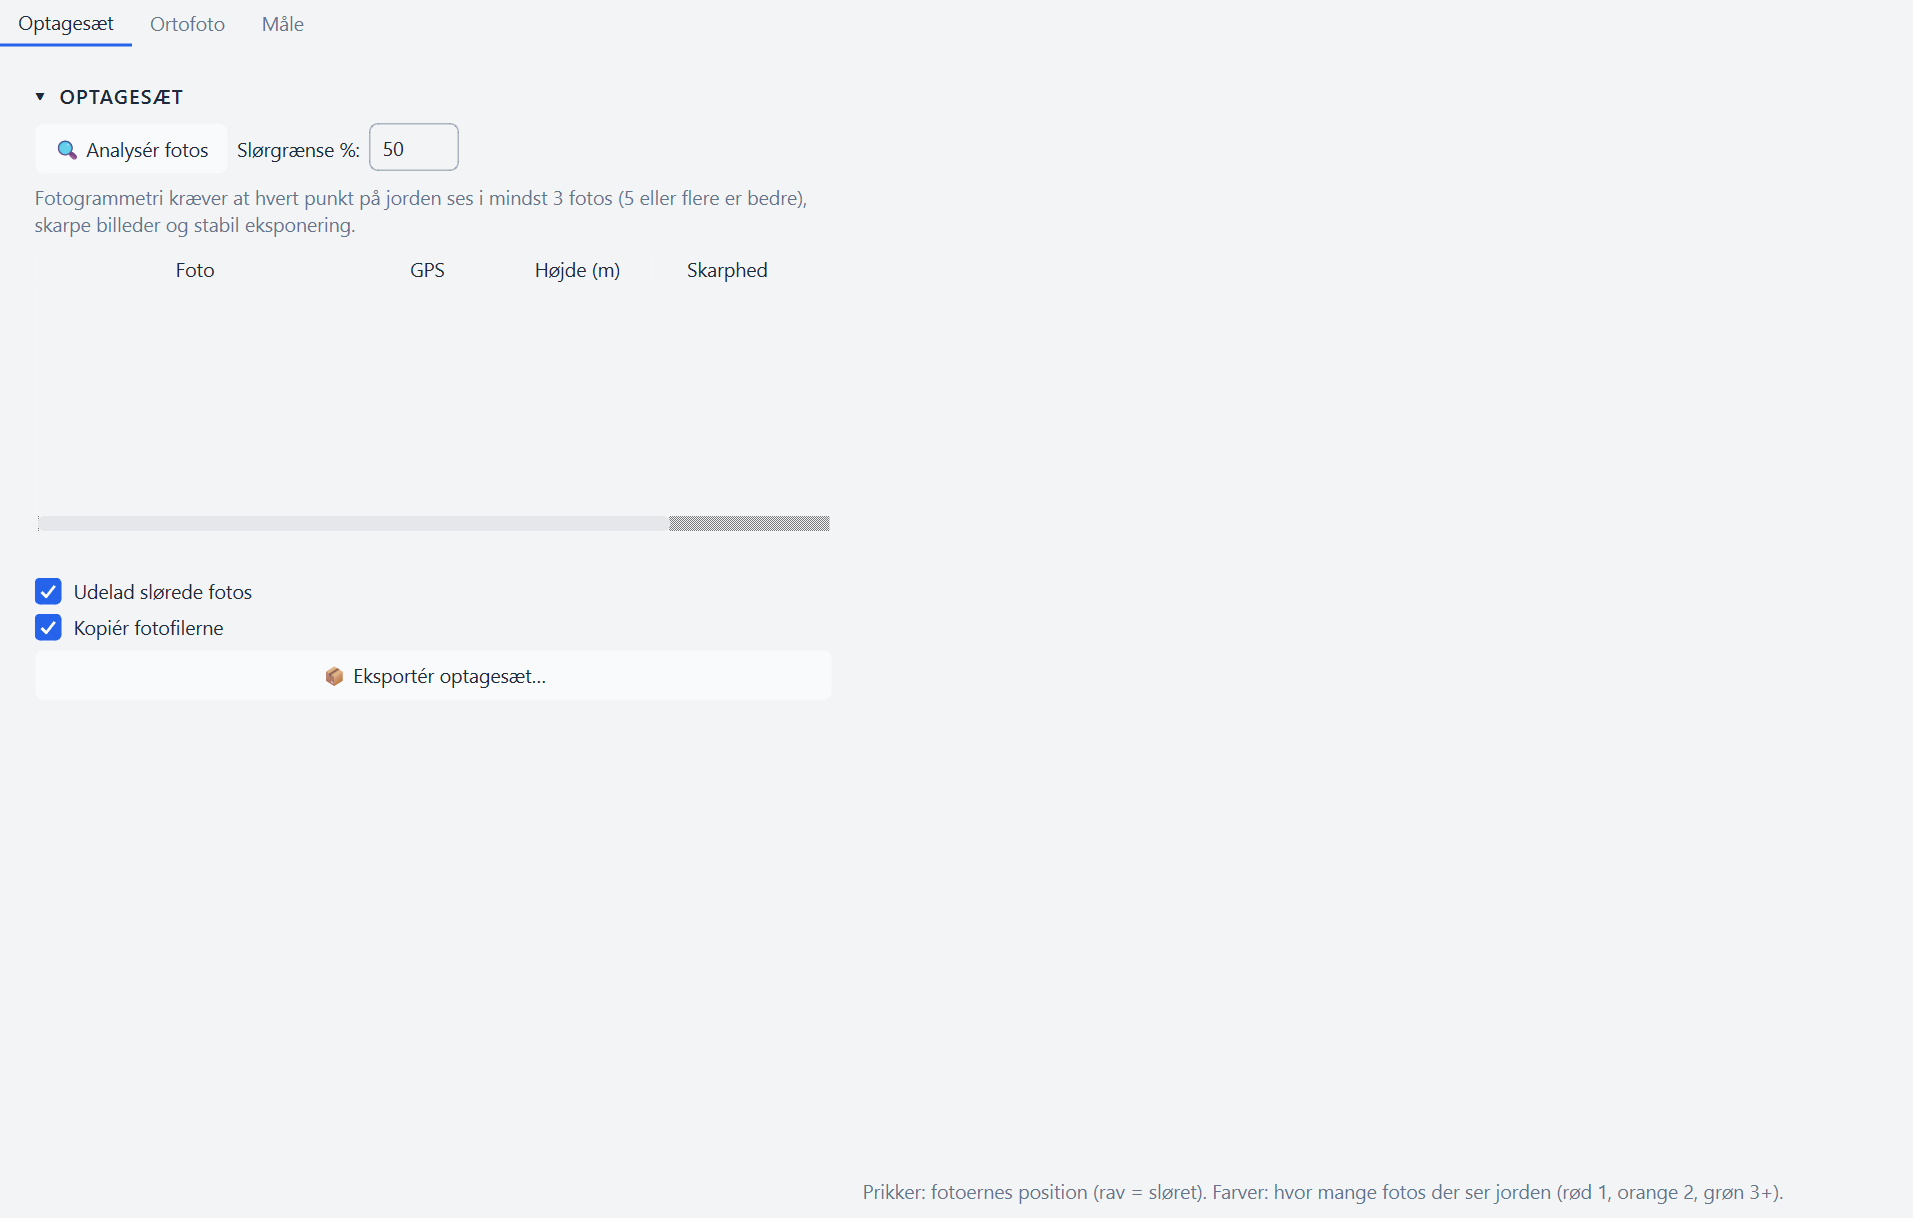
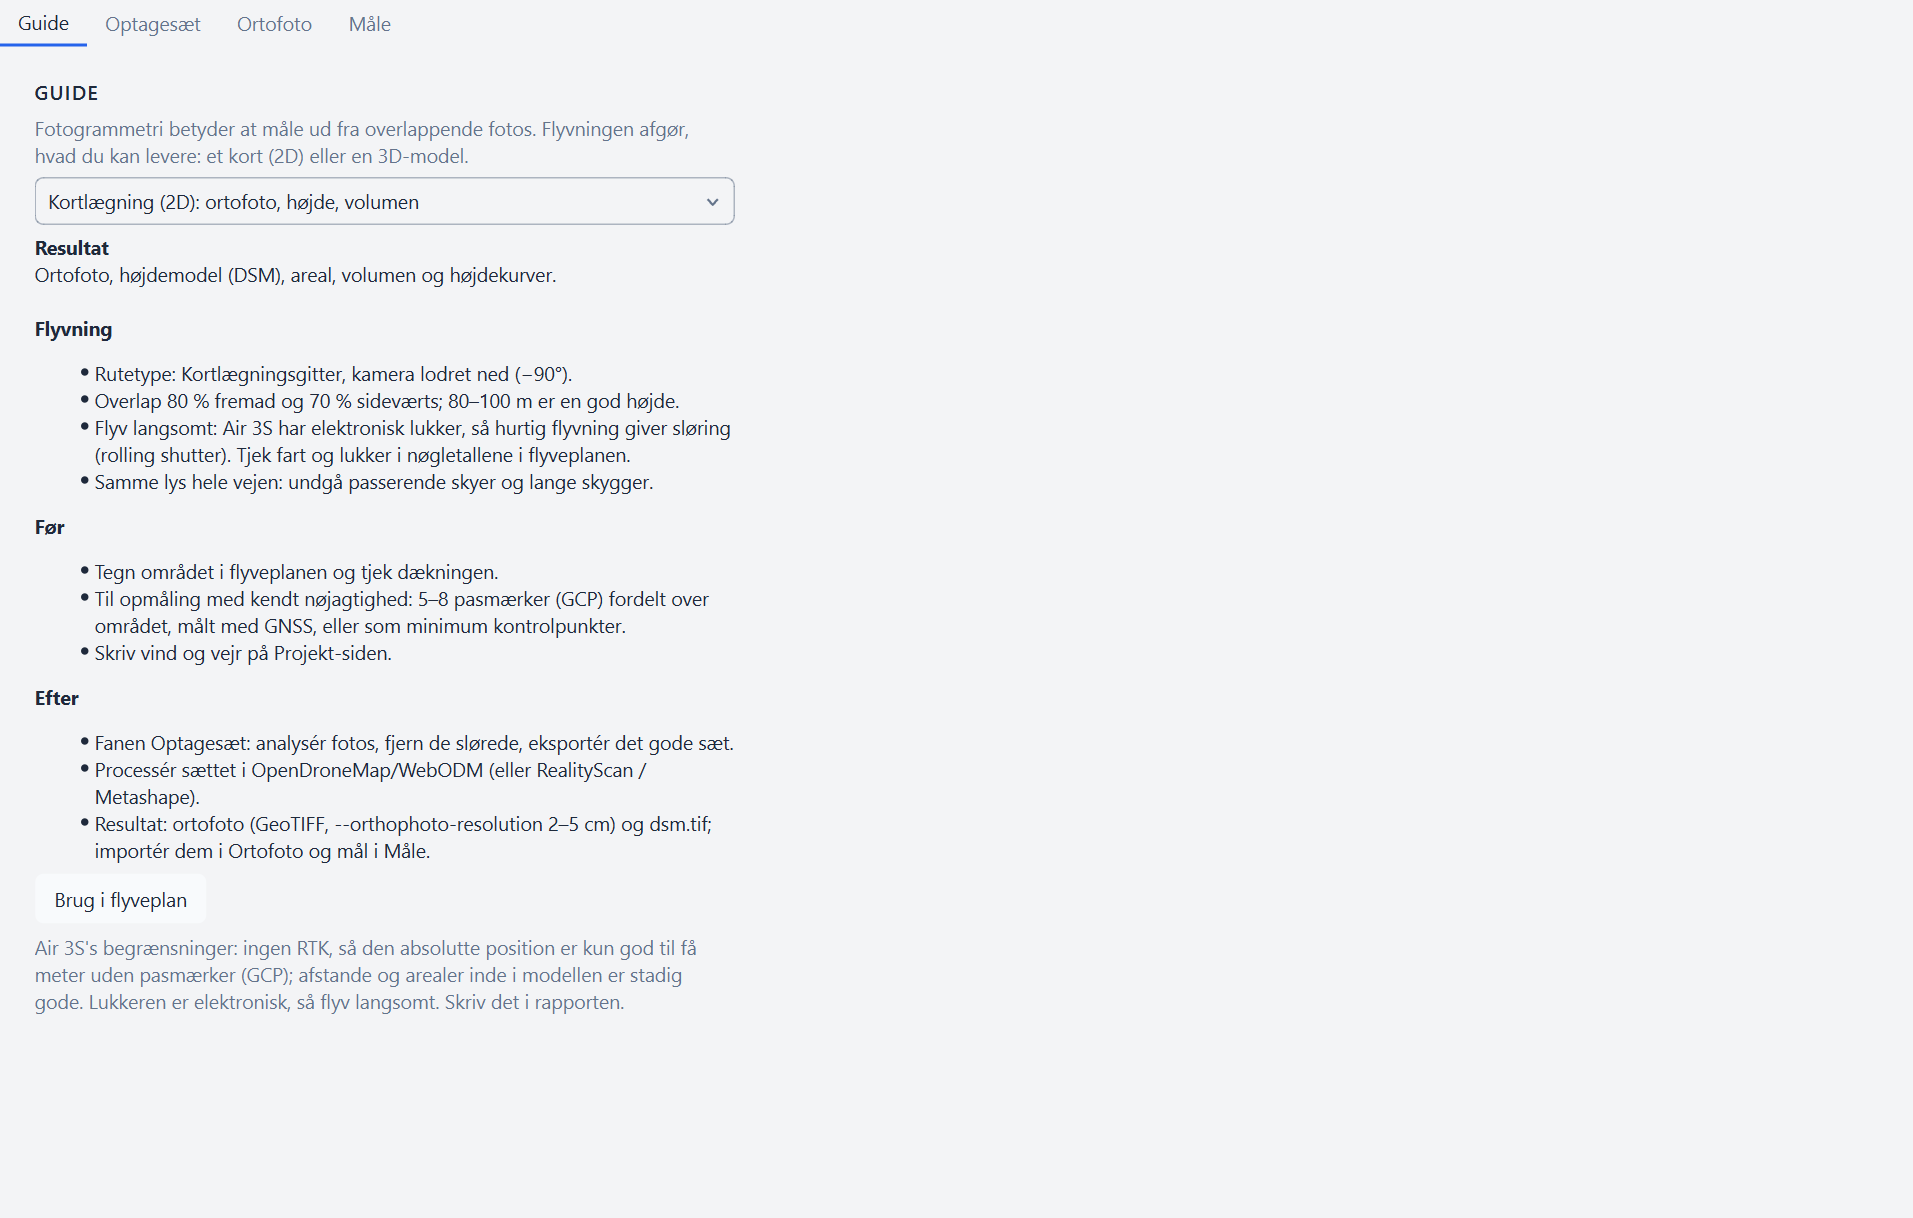
Guide: Mapping & 3D workflow

diff --git a/text.js b/text.js
@@ -68,11 +68,19 @@ da: {
              "Ærligt: rigtige DJI R-JPEG-filer er endnu ikke afprøvet i programmet – kun testdata."]
     },
     map: {
-      lead: "Fra fotos til kort og 3D: optagesæt til fotogrammetri, ortofoto med dine fund og målinger.",
-      tabs: ["<b>Optagesæt</b>: analysér fotoene (dækning og slørede billeder) og eksportér et rent sæt til WebODM, RealityScan eller COLMAP. Programmet laver ikke selv 3D-modellen.",
+      lead: "Mapping og 3D: fra flyveplan til ortofoto, højdemodel og 3D-model. Fotogrammetri betyder at måle ud fra overlappende fotos – flyvningen afgør, om du leverer et kort (2D) eller en 3D-model.",
+      tabs: ["<b>Guide</b>: vælg, hvad du laver (kortlægning, 3D af bygning, 3D af objekt, facade) og få flyveindstillinger og en tjekliste. <i>Brug i flyveplan</i> sætter rutetype og overlap og åbner Flyveplan.",
+             "<b>Optagesæt</b>: analysér fotoene (dækning og slørede billeder) og eksportér et rent sæt til WebODM, RealityScan eller COLMAP. Programmet laver ikke selv 3D-modellen.",
              "<b>Ortofoto</b>: importér et GeoTIFF fra fx WebODM. Fund kan placeres automatisk på kortet ud fra fotoenes position.",
              "<b>Måle</b>: afstand, areal, højde, volumen og profil – højde og volumen kræver en højdemodel (DSM). Kontrolpunkter viser, hvor nøjagtigt kortet er."],
-      steps: [],
+      steps: ["<b>Vælg opgaven</b> i fanen Guide og tryk <i>Brug i flyveplan</i>. Kortlægning (2D) giver ortofoto, højdemodel og volumen; 3D-model giver mesh og punktsky.",
+              "<b>Planlæg i Flyveplan</b>: tegn området (eller væglinjen / orbit-centret), tjek nøgletallene (fart, lukker, antal fotos) og eksportér til dronen.",
+              "<b>Pasmærker (GCP)</b>, hvis resultatet skal måles nøjagtigt: 5–8 punkter fordelt over området, målt med GNSS. Uden dem er den absolutte position kun god til få meter.",
+              "<b>Flyv</b> langsomt og i jævnt lys. Air 3S har elektronisk lukker, så hurtig flyvning giver rolling shutter-sløring.",
+              "<b>Optagesæt</b>: analysér fotoene, tjek dækning og slørede billeder, og eksportér et rent sæt.",
+              "<b>Processér</b> sættet i WebODM/OpenDroneMap (eller RealityScan, Metashape). Gem ortofoto (GeoTIFF) og dsm.tif; til 3D også modellen.",
+              "<b>Ortofoto</b>: importér GeoTIFF, placér fund. <b>Måle</b>: mål afstand, areal, højde og volumen, og tilføj kontrolpunkter for nøjagtigheden.",
+              "<b>Rapport</b>: skriv forbeholdene med (ingen RTK, antal pasmærker) og eksportér."],
       tips: ["Uden RTK eller kontrolpunkter er målinger ikke metrisk nøjagtige – brug dem som overslag.",
              "Kortet viser OpenStreetMap; slå <i>Offline</i> til for kun at bruge gemte fliser."]
     },
@@ -92,7 +100,7 @@ da: {
     lead: "Drone Studio laver inspektionsrapporter fra dronefotos og video. Programmet er bygget op som menuen til venstre: du arbejder oppefra og ned.",
     flow: [["project", "Opret projektet og vælg kunde."], ["plan", "Planlæg flyvningen (valgfrit)."], ["onsite", "Flyv og fotografér – sådan gør du på lokation."],
            ["photos", "Importér og sortér fotos og video."], ["mark", "Markér fund, og beskriv bygningsdelene."],
-           ["thermal", "Termografi, hvis du har termiske billeder."], ["map", "Ortofoto, målinger og 3D-optagesæt (valgfrit)."], ["report", "Tjek, vælg layout og eksportér."]],
+           ["thermal", "Termografi, hvis du har termiske billeder."], ["map", "Mapping & 3D: guide, optagesæt, ortofoto og målinger (valgfrit)."], ["report", "Tjek, vælg layout og eksportér."]],
     frame: [["Sidemenuen", "Siderne i rækkefølge. Knappen nederst folder menuen sammen til ikoner. Ny, Åbn og Gem sidder også nederst."],
             ["Topbjælken", "Fortryd og gentag, <b>?</b> (denne guide, F1), tandhjulet (tema, sprog og skærmstørrelse 100–150 % til en bærbar i felten) og <b>Eksportér rapport</b>."],
             ["Nederst", "<b>Næste →</b> går til næste trin; statuslinjen fortæller, hvad programmet laver."],
@@ -186,11 +194,19 @@ en: {
              "Honestly: real DJI R-JPEG files have not been tried in the app yet – only test data."]
     },
     map: {
-      lead: "From photos to maps and 3D: a capture set for photogrammetry, an orthophoto with your findings, and measurements.",
-      tabs: ["<b>Capture set</b>: analyse the photos (coverage and blurry ones) and export a clean set for WebODM, RealityScan or COLMAP. The app does not build the 3D model itself.",
+      lead: "Mapping & 3D: from flight plan to orthophoto, elevation model and 3D model. Photogrammetry means measuring from overlapping photos – the flight decides whether you deliver a map (2D) or a 3D model.",
+      tabs: ["<b>Guide</b>: choose what you are making (mapping, 3D of a building, 3D of an object, facade) and get flight settings and a checklist. <i>Use in flight plan</i> sets the route type and overlap and opens Flight plan.",
+             "<b>Capture set</b>: analyse the photos (coverage and blurry ones) and export a clean set for WebODM, RealityScan or COLMAP. The app does not build the 3D model itself.",
              "<b>Orthophoto</b>: import a GeoTIFF from e.g. WebODM. Findings can be placed on it automatically from the photos' positions.",
              "<b>Measure</b>: distance, area, height, volume and profile – height and volume need an elevation model (DSM). Control points show how accurate the map is."],
-      steps: [],
+      steps: ["<b>Choose the job</b> in the Guide tab and press <i>Use in flight plan</i>. Mapping (2D) gives an orthophoto, elevation model and volume; a 3D model gives a mesh and point cloud.",
+              "<b>Plan in Flight plan</b>: draw the area (or the wall line / orbit centre), check the numbers (speed, shutter, photo count) and export to the drone.",
+              "<b>Ground control points (GCP)</b> if the result must be measured accurately: 5–8 points spread over the area, measured with GNSS. Without them the absolute position is only good to a few metres.",
+              "<b>Fly</b> slowly in even light. The Air 3S has an electronic shutter, so fast flights give rolling-shutter blur.",
+              "<b>Capture set</b>: analyse the photos, check coverage and blurry ones, and export a clean set.",
+              "<b>Process</b> the set in WebODM/OpenDroneMap (or RealityScan, Metashape). Keep the orthophoto (GeoTIFF) and dsm.tif; for 3D also the model.",
+              "<b>Orthophoto</b>: import the GeoTIFF, place findings. <b>Measure</b>: measure distance, area, height and volume, and add check points for the accuracy.",
+              "<b>Report</b>: include the limits (no RTK, number of control points) and export."],
       tips: ["Without RTK or control points, measurements are not metrically accurate – use them as estimates.",
              "The map shows OpenStreetMap; tick <i>Offline</i> to use saved tiles only."]
     },
@@ -210,7 +226,7 @@ en: {
     lead: "Drone Studio makes inspection reports from drone photos and video. The app is laid out like the menu on the left: you work from top to bottom.",
     flow: [["project", "Create the project and choose the customer."], ["plan", "Plan the flight (optional)."], ["onsite", "Fly and take photos – how to work on site."],
            ["photos", "Import and sort photos and videos."], ["mark", "Mark findings and describe the building parts."],
-           ["thermal", "Thermography, if you have thermal images."], ["map", "Orthophoto, measurements and 3D capture sets (optional)."], ["report", "Check, choose a layout and export."]],
+           ["thermal", "Thermography, if you have thermal images."], ["map", "Mapping & 3D: guide, capture set, orthophoto and measurements (optional)."], ["report", "Check, choose a layout and export."]],
     frame: [["The side menu", "The pages in order. The button at the bottom folds the menu to icons. New, Open and Save are at the bottom too."],
             ["The top bar", "Undo and redo, <b>?</b> (this guide, F1), the gear (theme, language and screen size 100–150 % for a laptop in the field) and <b>Export report</b>."],
             ["At the bottom", "<b>Next →</b> goes to the next step; the status line says what the app is doing."],

diff --git a/data.js b/data.js
@@ -7,7 +7,7 @@ window.GUIDE_DATA = {
    "photos": "Foto & Video",
    "mark": "Værksted",
    "thermal": "Termografi",
-   "map": "3D & kort",
+   "map": "Mapping & 3D",
    "report": "Layout & Rapport"
   },
   "pages": {
@@ -1520,6 +1520,39 @@ window.GUIDE_DATA = {
      "sections": [
       {
        "id": "s1",
+       "title": "Guide",
+       "tip": "",
+       "rect": [
+        9,
+        40,
+        495,
+        650
+       ]
+      }
+     ],
+     "controls": [
+      {
+       "id": "c1",
+       "label": "Brug i flyveplan",
+       "tip": "Sætter rutetype og overlap til dette job og åbner flyveplanen. Højde, fart og kamera forbliver, som du har sat dem.",
+       "rect": [
+        23,
+        582,
+        115,
+        34
+       ],
+       "section": "s1"
+      }
+     ],
+     "tab": "Guide"
+    },
+    {
+     "img": "shots/da/map_2.png",
+     "w": 1275,
+     "h": 812,
+     "sections": [
+      {
+       "id": "s1",
        "title": "Optagesæt",
        "tip": "Klik for at folde gruppen ud eller ind.",
        "rect": [
@@ -1595,7 +1628,7 @@ window.GUIDE_DATA = {
      "tab": "Optagesæt"
     },
     {
-     "img": "shots/da/map_2.png",
+     "img": "shots/da/map_3.png",
      "w": 1275,
      "h": 812,
      "sections": [],
@@ -1616,7 +1649,7 @@ window.GUIDE_DATA = {
      "tab": "Ortofoto"
     },
     {
-     "img": "shots/da/map_3.png",
+     "img": "shots/da/map_4.png",
      "w": 1275,
      "h": 812,
      "sections": [],
@@ -1918,7 +1951,7 @@ window.GUIDE_DATA = {
    "photos": "Photos & Video",
    "mark": "Workshop",
    "thermal": "Thermography",
-   "map": "3D & map",
+   "map": "Mapping & 3D",
    "report": "Layout & Report"
   },
   "pages": {
@@ -3431,6 +3464,39 @@ window.GUIDE_DATA = {
      "sections": [
       {
        "id": "s1",
+       "title": "Guide",
+       "tip": "",
+       "rect": [
+        9,
+        40,
+        505,
+        650
+       ]
+      }
+     ],
+     "controls": [
+      {
+       "id": "c1",
+       "label": "Use in flight plan",
+       "tip": "Sets the route type and overlaps for this job and opens the flight plan. Height, speed and camera stay as you set them.",
+       "rect": [
+        23,
+        582,
+        123,
+        34
+       ],
+       "section": "s1"
+      }
+     ],
+     "tab": "Guide"
+    },
+    {
+     "img": "shots/en/map_2.png",
+     "w": 1275,
+     "h": 812,
+     "sections": [
+      {
+       "id": "s1",
        "title": "Capture set",
        "tip": "Click to fold this group open or closed.",
        "rect": [
@@ -3506,7 +3572,7 @@ window.GUIDE_DATA = {
      "tab": "Capture set"
     },
     {
-     "img": "shots/en/map_2.png",
+     "img": "shots/en/map_3.png",
      "w": 1275,
      "h": 812,
      "sections": [],
@@ -3527,7 +3593,7 @@ window.GUIDE_DATA = {
      "tab": "Orthophoto"
     },
     {
-     "img": "shots/en/map_3.png",
+     "img": "shots/en/map_4.png",
      "w": 1275,
      "h": 812,
      "sections": [],
